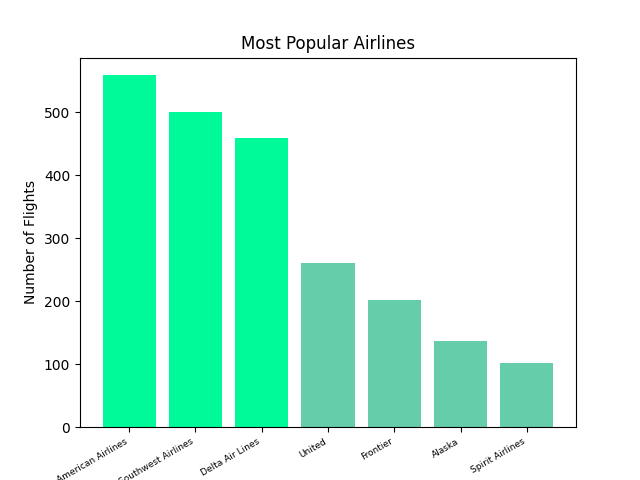
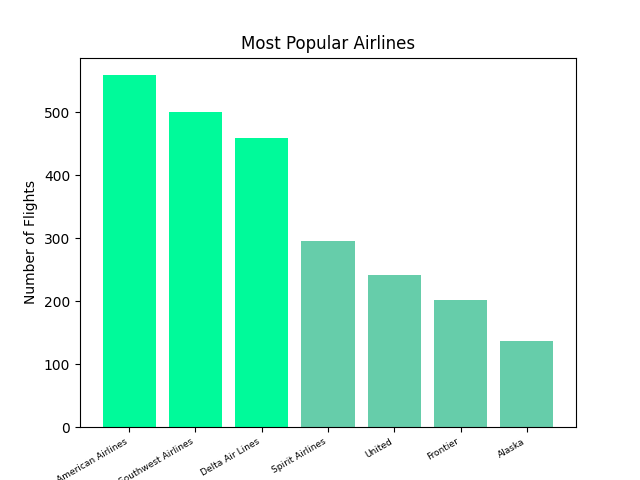
modified parse_carrier_data to not hardcode things

diff --git a/flight_data_visualize.py b/flight_data_visualize.py
@@ -23,53 +23,74 @@ ORDER BY SUM(routes.num_flights) DESC
 def parse_carrier_data(cur):
     carrier_list = []
     num_flight_list = []
+    temp_tup_list = []
     #query listed above includes the calculation since SUM is an aggregate function in SQL
     res = cur.execute("SELECT carrier.name, SUM(routes.num_flights) FROM routes JOIN carrier ON carrier.plane_id = routes.carrier_id GROUP BY routes.carrier_id HAVING SUM(routes.num_flights) > 100 ORDER BY SUM(routes.num_flights) DESC")
-    #forms the bar list and the labels 
+    #forms the list as (carrier, num_flights)
     for row in res:
-        carrier_list.append(row[0])
-        num_flight_list.append(int(row[1]))
+        temp_tup_list.append((row[0], int(row[1])))
     #cleans up lists because the API counts "American" and "American Airlines" as two different airlines
     #ditto with "Southwest" and "Southwest Airlines"
     #and "Spirit" and "Spirit Airlines"
     #this is an API issue, not mine
     #finds indicies
+    am_index, ama_index, south_index, swa_index, sp_index, spa_index = 0, 0, 0, 0, 0, 0
+    for i in range(len(temp_tup_list)):
+        if temp_tup_list[i][0] == "American":
+            am_index = i
+        if temp_tup_list[i][0] == "American Airlines":
+            ama_index = i
+        if temp_tup_list[i][0] == "Southwest":
+            south_index = i
+        if temp_tup_list[i][0] == "Southwest Airlines":
+            swa_index = i
+        if temp_tup_list[i][0] == "Spirit":
+            sp_index = i
+        if temp_tup_list[i][0] == "Spirit Airlines":
+            spa_index = i
+    '''
     am_index = carrier_list.index("American")
     ama_index = carrier_list.index("American Airlines")
     south_index = carrier_list.index("Southwest")
     swa_index = carrier_list.index("Southwest Airlines")
     sp_index = carrier_list.index("Spirit")
     spa_index = carrier_list.index("Spirit Airlines")
-    #updates sums, and assigns them to American Airlines and Southwest Airlines
-    am_sum = num_flight_list[am_index] + num_flight_list[ama_index]
-    s_sum = num_flight_list[south_index] + num_flight_list[swa_index]
-    sp_sum = num_flight_list[sp_index] = num_flight_list[spa_index]
-    num_flight_list[ama_index] = am_sum
-    num_flight_list[swa_index] = s_sum
-    num_flight_list[spa_index] = sp_sum
-    #delete the rows for American and Southwest
-    num_flight_list.remove(num_flight_list[am_index])
-    num_flight_list.remove(num_flight_list[south_index])
-    num_flight_list.remove(num_flight_list[sp_index])
-    carrier_list.remove("American")
-    carrier_list.remove("Southwest")
-    carrier_list.remove("Spirit")
+    '''
+    #updates sums
+    t1 = temp_tup_list[am_index][1]
+    t2 = temp_tup_list[ama_index][1]
+    t3 = temp_tup_list[south_index][1]
+    t4 = temp_tup_list[swa_index][1]
+    t5 = temp_tup_list[sp_index][1]
+    t6 = temp_tup_list[spa_index][1]
+    am_sum = t1 + t2
+    s_sum = t3 + t4
+    sp_sum = t5 + t6
+    #delete the extraneous rows
+    temp_tup_list.remove(("American", t1))
+    temp_tup_list.remove(("American Airlines", t2))
+    temp_tup_list.remove(("Southwest", t3))
+    temp_tup_list.remove(("Southwest Airlines", t4))
+    temp_tup_list.remove(("Spirit", t5))
+    temp_tup_list.remove(("Spirit Airlines", t6))
+    #adds new tuples to the lists
+    temp_tup_list.append(("American Airlines", am_sum))
+    temp_tup_list.append(("Southwest Airlines", s_sum))
+    temp_tup_list.append(("Spirit Airlines", sp_sum))
     #re-sorts lists
-    num_flights = sorted(num_flight_list, reverse=True)
-    #this is hard-coded- I might come back and change this later
-    carrier_list[0] = "American Airlines"
-    carrier_list[1] = "Southwest Airlines"
-    carrier_list[2] = "Delta Air Lines"
-    carrier_list[3] = "United"
+    temp = sorted(temp_tup_list, key=lambda x: x[1], reverse=True)
+    for item in temp:
+        carrier_list.append(item[0])
+        num_flight_list.append(item[1])
     #creates list of colors for bar chart- will also probably modify this...later
     col = []
-    for item in num_flights:
+    for item in num_flight_list:
         if item > 300:
             col.append('mediumspringgreen')
         else:
             col.append('mediumaquamarine')
     #makes bar chart
-    plt.bar(carrier_list, num_flights, color=col)
+    plt.bar(carrier_list, num_flight_list, color=col)
     plt.xlabel("Carriers")
     plt.xticks(rotation=30, ha='right', fontsize=6.5)
     plt.ylabel("Number of Flights")
@@ -81,7 +102,7 @@ def parse_carrier_data(cur):
         for item in carrier_list:
             outfile.write(f"{item},")
         outfile.write(f"\n")
-        for item in num_flights:
+        for item in num_flight_list:
             outfile.write(f"{str(item)},")
     
 
